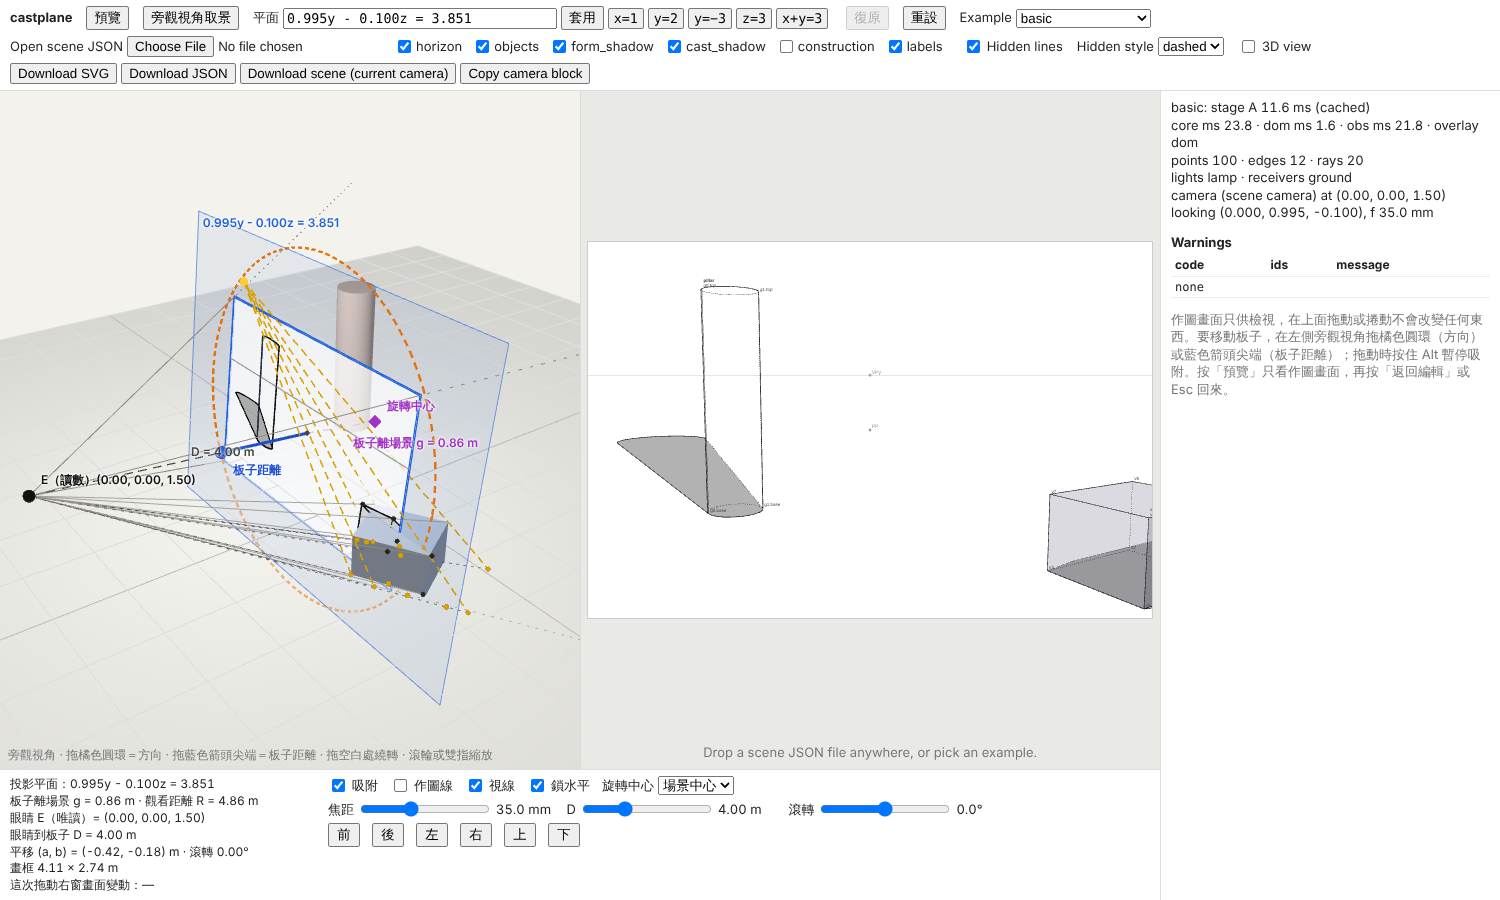
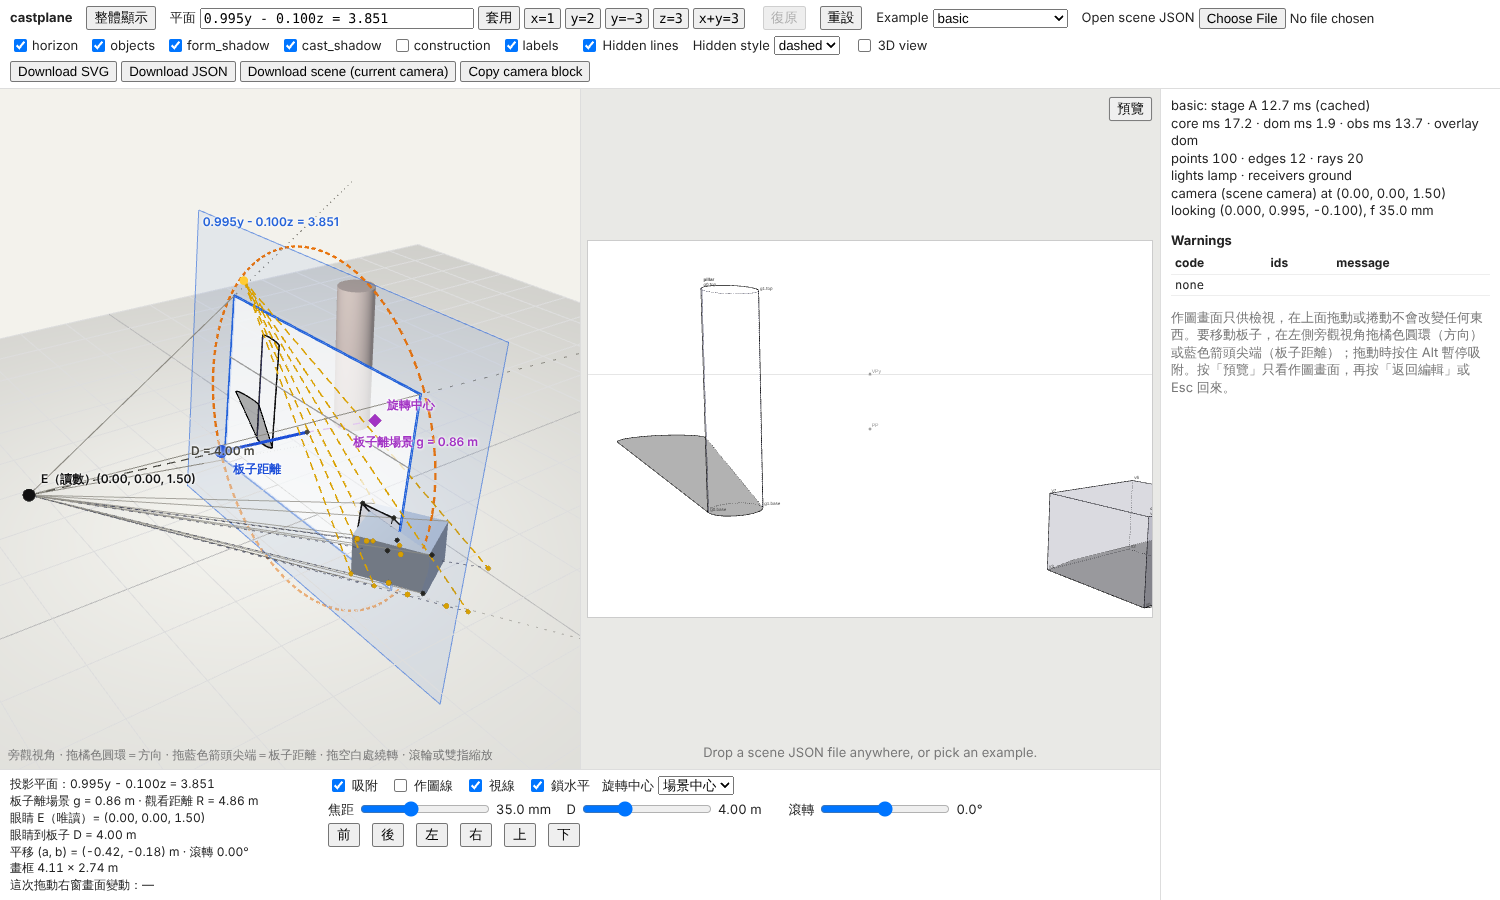
Web: 預覽 at the top right of the drawing pane; 旁觀視角取景 renamed 整體顯示; D80 review fixes
- 預覽 moves from the toolbar into the drawing pane's top right corner.
- 旁觀視角取景 is renamed 整體顯示 (same action).
- 預覽 is refused while an observer drag is held (the board no longer
  moves with the pane hidden).
- Esc in the equation field no longer also leaves 預覽.
- The markup starts in the edit view (no flash of the drawing alone).
- The pivot notice no longer says to open 旁觀視角; stale switch comments.

Claude-Session: https://claude.ai/code/session_01Y5LMS3wqmpLoV9XZ4UvnBE

diff --git a/web/src/main.ts b/web/src/main.ts
@@ -53,7 +53,7 @@ const TOGGLES = initial_toggles(LAYER_IDS);
 interface FrameRecord {
   core_ms: number;
   dom_ms: number;
-  /** The observer's own cost (geometry + its render), `null` while the switch is off. */
+  /** The observer's own cost (geometry + its render), `null` while 預覽 hides the pane. */
   obs_ms: number | null;
   mode: OverlayMode;
   dragging: boolean;
@@ -111,7 +111,7 @@ const { viewport, stage, canvas, examplesSelect, fileInput, focalInput, distInpu
 const view = new Stage3D(canvas);
 const overlay = new Overlay(stage);
 const warnings = new WarningsTable(ui.warningsBody);
-/** The observer pane, created on the first switch-on (with the switch off the layout and outputs are the §5.4.10 page's;
+/** The observer pane, created at startup (D80; while 預覽 hides it the layout and outputs are the §5.4.10 page's;
  *  the drawing pane takes no input either way, D79). */
 let observer: ObserverPane | null = null;
 
@@ -227,7 +227,7 @@ function sync_controls(): void {
   set_lines(ui.readouts, pl.readout_lines());
   const notes = pl.notices();
   if (pl.pivot.mode === "object" && pl.pivot.object_id === null) {
-    notes.push(state.obs.on ? "請點一下左窗的物體，把它設為旋轉中心（目前暫用場景中心）" : "打開旁觀視角後點一下左窗的物體，把它設為旋轉中心（目前暫用場景中心）");
+    notes.push(state.obs.on ? "請點一下左窗的物體，把它設為旋轉中心（目前暫用場景中心）" : "按「返回編輯」後點一下左窗的物體，把它設為旋轉中心（目前暫用場景中心）");
   }
   set_lines(ui.notices, notes);
   ui.undo.disabled = !pl.undo.canUndo;
@@ -297,6 +297,7 @@ ui.equation.addEventListener("keydown", (ev) => {
     ev.preventDefault();
     if (apply_equation(ui.equation.value)) ui.equation.blur();
   } else if (ev.key === "Escape") {
+    ev.stopPropagation(); // the field's Esc cancels the typed text only; it does not also leave 預覽
     set_equation_error(null);
     ui.equation.blur();
   }
@@ -488,7 +489,8 @@ function set_observer(on: boolean): void {
 
 /** "預覽" (D80): the drawing pane alone; pressed again ("返回編輯") or Esc returns to the edit view. */
 function set_preview(preview: boolean): void {
-  if (preview === !state.obs.on) return;
+  // a held drag (observer handle or orbit) keeps the pane: hiding it mid-gesture would move the board unseen
+  if (preview === !state.obs.on || state.dragging || state.handle !== null) return;
   set_observer(!preview);
 }
 ui.preview.addEventListener("click", () => set_preview(state.obs.on));
@@ -641,7 +643,7 @@ function frame(): void {
   set_observer: (on: boolean) => {
     if (on !== state.obs.on) ui.preview.click();
   },
-  /** M9: the observer's state (`null` before it was first switched on). */
+  /** M9: the observer's state (`null` only before startup creates it). */
   get observer() {
     if (observer === null) return null;
     const names = observer.names;
@@ -653,7 +655,7 @@ function frame(): void {
     return { on: state.obs.on, D: state.plane?.rig.D ?? null, view: observer.view, labels: observer.label_texts, names,
       art_objects: count("art"), ms: state.obs.ms, size: [W, H], px };
   },
-  /** M9: the "旁觀視角取景" button. */
+  /** M9: the "整體顯示" button. */
   frame_observer: () => ui.observerFrame.click(),
   /** The UI's hidden-line state: the checkbox and the style select. */
   get hidden() { return { lines: hiddenLines.checked, style: hidden_style() }; },

diff --git a/web/test/plane.test.ts b/web/test/plane.test.ts
@@ -534,7 +534,14 @@ test("the page opens in the edit view: no observer checkbox, a 預覽 toggle but
   const html = readFileSync(resolve(ROOT, "web", "index.html"), "utf-8");
   assert.ok(!html.includes('id="observer-on"'), "the 旁觀視角 checkbox is gone");
   assert.match(html, /<button id="preview" type="button" aria-pressed="false"[^>]*>預覽<\/button>/);
-  assert.ok(!/<span class="group" id="observer-controls" hidden>/.test(html), "旁觀視角取景 is shown with the pane");
+  assert.ok(!/<span class="group" id="observer-controls" hidden>/.test(html), "整體顯示 is shown with the pane");
+  assert.match(html, /<div id="panes" class="observer-on">/, "the markup starts in the edit view");
+  // 預覽 sits at the top right of the drawing pane; 旁觀視角取景 is now 整體顯示
+  assert.match(html, /<section id="viewport" aria-label="viewport">\s*<button id="preview"/);
+  assert.match(html, /<button id="observer-frame" type="button">整體顯示<\/button>/);
+  const css = readFileSync(resolve(ROOT, "web", "src", "style.css"), "utf-8");
+  assert.match(css, /^#preview \{ position: absolute; top: 8px; right: 8px;/m);
+  assert.match(html, /<section id="observer" aria-label="observer view">/, "the observer pane is not hidden in the markup");
   const src = readFileSync(resolve(ROOT, "web", "src", "main.ts"), "utf-8");
   assert.ok(!/localStorage|OBSERVER_KEY|castplane\.observer"/.test(src.replace(/\/\/.*$/gm, "")), "no stored observer state");
   assert.match(src, /^set_preview\(TOGGLES\.preview\);$/m, "the start state comes from initial_toggles");
@@ -543,4 +550,8 @@ test("the page opens in the edit view: no observer checkbox, a 預覽 toggle but
   assert.match(src, /ui\.preview\.setAttribute\("aria-pressed", on \? "false" : "true"\)/);
   assert.match(src, /ui\.preview\.textContent = on \? "預覽" : "返回編輯"/);
   assert.match(src, /ev\.key === "Escape" && !state\.obs\.on\) set_preview\(false\)/);
+  // Esc in the equation field stays there; 預覽 is refused while a drag is held
+  assert.match(src, /ev\.stopPropagation\(\); \/\/ the field's Esc/);
+  assert.match(src, /preview === !state\.obs\.on \|\| state\.dragging \|\| state\.handle !== null\) return;/);
+  assert.ok(!src.includes("打開旁觀視角"), "no notice tells the user to switch the observer on");
 });

diff --git a/web/index.html b/web/index.html
@@ -8,9 +8,8 @@
   <body>
     <header id="toolbar">
       <span class="brand">castplane</span>
-      <button id="preview" type="button" aria-pressed="false" title="只看作圖畫面（Esc 返回）">預覽</button>
       <span class="group" id="observer-controls">
-        <button id="observer-frame" type="button">旁觀視角取景</button>
+        <button id="observer-frame" type="button">整體顯示</button>
       </span>
       <span class="group" id="equation-group">
         <label class="group" for="equation">平面</label>
@@ -42,13 +41,14 @@
     </header>
     <main id="main">
       <div id="work">
-        <div id="panes">
-          <section id="observer" aria-label="observer view" hidden>
+        <div id="panes" class="observer-on">
+          <section id="observer" aria-label="observer view">
             <canvas id="obs-gl"></canvas>
             <div id="obs-labels"></div>
             <div class="obs-hint">旁觀視角 · 拖橘色圓環＝方向 · 拖藍色箭頭尖端＝板子距離 · 拖空白處繞轉 · 滾輪或雙指縮放</div>
           </section>
           <section id="viewport" aria-label="viewport">
+            <button id="preview" type="button" aria-pressed="false" title="只看作圖畫面（Esc 返回）">預覽</button>
             <div id="stage">
               <canvas id="gl" class="hidden"></canvas>
             </div>

diff --git a/web/src/style.css b/web/src/style.css
@@ -36,6 +36,8 @@ body { display: flex; flex-direction: column; }
 #observer { flex: 1; position: relative; min-width: 0; min-height: 0; overflow: hidden; background: #f3f2ec; touch-action: none; border-right: 1px solid #ddd; }
 #observer[hidden] { display: none; }
 /* D80: "預覽" pressed (the observer pane hidden) */
+/* top right of the drawing pane, above the stage */
+#preview { position: absolute; top: 8px; right: 8px; z-index: 5; }
 #preview[aria-pressed="true"] { background: #2563eb; border-color: #1d4ed8; color: #fff; }
 #observer canvas { position: absolute; inset: 0; width: 100%; height: 100%; display: block; cursor: grab; }
 #observer.on-handle canvas { cursor: pointer; }

diff --git a/web/src/ui.ts b/web/src/ui.ts
@@ -226,7 +226,7 @@ export function umbra_count(doc: GeometryDocument): number {
   return (doc.umbra ?? []).reduce((n, u) => n + (u.polygons?.length ?? 0), 0);
 }
 
-/** The status line of a rendered frame; `obs_ms` (the observer's per-frame cost, §5.6.3) only while the switch is on.
+/** The status line of a rendered frame; `obs_ms` (the observer's per-frame cost, §5.6.3) only while the observer pane is shown (not 預覽).
  * The camera line reads the record of the rendered block (`C`, `forward`) and its form. */
 export function status_text(
   sceneName: string, timings: { stage_a_ms: number; core_ms: number; dom_ms: number }, mode: OverlayMode,

diff --git a/web/src/observer.ts b/web/src/observer.ts
@@ -6,7 +6,7 @@
  * `f = rec.forward`, `D` fixed per loaded scene ({@link observer_D}), `Q = E + D·f`, the frame's corners the canvas
  * corners unprojected to depth `D` (`unproject_to_plane`), the pivot `P` and `R` the M7 orbit's `target` and `distance`,
  * `g = R − D`. Everything here only reads the camera record, the document, the scene and stage A; nothing is written
- * back (the switch-off identity of §5.6.0).
+ * back (the switch-off identity of §5.6.0, now the 預覽 state, D80).
  */
 
 import { camera_matrix, plane_equation, resolve_picture_plane, unproject_to_plane } from "castplane";

diff --git a/docs/DECISIONS.md b/docs/DECISIONS.md
@@ -500,13 +500,13 @@ v1 的決定：保留目標值不改，`benchmarks/README.md` 記錄實測數字
 - **理由**：操作板子只留一個地方（左窗與工具列），右窗就成為穩定的結果畫面，看圖、捲頁、點右鍵都不會誤改視角；觸控裝置上右窗也不再搶走捲動。預設直接顯示完成的線稿（物體、地平線、陰影、標籤，被遮住的線依 Hidden style 畫出，預設為虛線），不被作圖線蓋滿；要看作圖過程再勾選 construction。3D view 預設關閉讓畫面乾淨，也省下一個 WebGL 畫面的算圖。勾選狀態屬於使用者的介面偏好，不屬於場景，所以載入另一個場景不該把它改回去。代價：旁觀視角關閉時沒有拖曳可以改相機（只剩滑桿、一鍵視圖與方程式），需要拖曳圓環與箭頭時打開旁觀視角；平移因此沒有手動入口，只能靠載入帶偏移的相機取得。
 - **後續**：第 4 點最後一句「旁觀視角開關預設關閉，不變」，以及本條「代價」中「旁觀視角關閉時沒有拖曳」的前提，已由 D80 取代（旁觀視角預設顯示，開關改為「預覽」按鈕）；其餘仍然有效。
 
-## D80 旁觀視角預設顯示，「旁觀視角」開關改為工具列的「預覽」按鈕（修訂 D79 與 M9 的開關決定；合約 §5.6.0、§5.6.3、§5.6.4 與 §5.6 實作註記）
+## D80 旁觀視角預設顯示，「旁觀視角」開關改為作圖畫面右上角的「預覽」按鈕（修訂 D79 與 M9 的開關決定；合約 §5.6.0、§5.6.3、§5.6.4 與 §5.6 實作註記）
 
 - **規格**：規格 v0.2 §2.2（編輯畫面與預覽）、§2.1（旁觀視角一列）、§5.9、§7.2 的 M9 一列；修訂 D79 第 4 點最後一句「旁觀視角開關預設關閉，不變」，以及 M9 在合約 §5.6.3、§5.6.4 定下的「開關預設關閉、每個瀏覽器用 `localStorage["castplane.observer"]` 記住」。M9 的開關沒有獨立的 D 編號，它的條文在合約 §5.6。
 - **問題**：D79 讓右窗唯讀，板子只能在左窗（旁觀視角）操作，但旁觀視角是一個預設關閉、還會被瀏覽器記住的勾選框。結果是頁面剛開啟時什麼都拖不動，要先找到並打開一個開關；而關閉的狀態又讓整個頁面沒有任何拖曳入口。「看完成的作圖」其實是暫時的看一眼，不是把一個功能關掉。
 - **決定**：
   1. 取消「旁觀視角」勾選框。頁面一律以**編輯畫面**開啟：旁觀視角窗格預設顯示，在作圖畫面左側（頁面寬度小於 880 px 時改為上下堆疊，旁觀視角在上），也就是原本開關打開時的版面。
-  2. 工具列新增切換鈕「預覽」（`aria-pressed`）。按下後旁觀視角窗格、它的工具列控制「旁觀視角取景」與狀態列的 `obs ms` 都隱藏，作圖畫面佔滿全寬；這就是原本「開關關閉」的狀態。預覽時按鈕顯示「返回編輯」，再按一次或按 Esc 回到編輯畫面（旁觀視角重新顯示）。
+  2. 作圖畫面右上角新增切換鈕「預覽」（`aria-pressed`）。按下後旁觀視角窗格、工具列的「整體顯示」與狀態列的 `obs ms` 都隱藏，作圖畫面佔滿全寬；這就是原本「開關關閉」的狀態。預覽時按鈕顯示「返回編輯」，再按一次或按 Esc 回到編輯畫面（旁觀視角重新顯示）。
   3. 預覽時不能拖曳板子（右窗唯讀，D79；把手在旁觀視角裡）；滑桿（焦距、D、滾轉）、六個一鍵視圖、方程式欄位、復原、重設照常可用。
   4. M9 的「開關關閉＝M7 頁面」恆等式照舊成立，只是改名：預覽時的版面、算圖迴圈與輸出和 M7 頁面相同；同一台相機下，疊層 SVG 與下載的 SVG、JSON 在編輯畫面與預覽之間逐位元相同。
   5. 不再記憶：頁面每次都從編輯畫面開始，舊的 `castplane.observer` 不讀也不寫（瀏覽器裡殘留的值直接忽略），預覽狀態也不存。

diff --git a/CHANGELOG.md b/CHANGELOG.md
@@ -11,6 +11,7 @@
 - m10-web (review fixes): a wheel inside a held drag is ignored (one gesture stays one undo step); a scene load drops a held right-pane drag so it never moves the new scene; switching the pivot selector to 點選物體 without a pick keeps the pan; objects are picked by a `userData` tag, so ids with `:` work; the 作圖線 checkbox no longer shares the id `construction` with the SVG layer; blurring a rejected equation clears its error; a slider dragged into its clamped range shows the clamped value at release; the handle hover cursor shows on the canvas; observer labels no longer overlap (`layout_labels`).
 - m10-web (D79, spec-v0.2 §2.1, §5.9): the drawing pane is read-only: no drag (any button, Shift, touch, pen) and no wheel on `#stage` does anything (no `preventDefault`, native page scroll, `touch-action` default, context menu no longer suppressed), so the board is manipulated in the observer pane and the toolbar only and the pan `(a, b)` comes from the load rule alone; toolbar defaults are page-level UI state: horizon, objects, form_shadow, cast_shadow, labels and Hidden lines checked, construction and 3D view unchecked (3D canvas hidden and not rendered from the first frame), kept across scene loads and no longer taken from `output.layers` / `output.hidden_lines`. Contract §5.4 and §5.7 implementation notes, DECISIONS D79; no output byte or conformance case changes.
 - m10-web (D80, spec-v0.2 §2.2): the observer pane is shown by default and the "旁觀視角" checkbox is replaced by a toolbar toggle "預覽" (`aria-pressed`): the page always opens in the edit view (observer left of the drawing pane, stacked on top below 880 px); 預覽 hides the observer pane, 旁觀視角取景 and `obs ms` and gives the drawing pane the full width (the old switch-off state, so the overlay SVG and the downloads stay byte-identical between the two views), the button then reads 返回編輯 and a second click or Esc goes back; the choice is no longer remembered (`localStorage["castplane.observer"]` is neither read nor written). Contract §5.6 implementation notes (amends §5.6.0, §5.6.3, §5.6.4, the §5.4 D79 note) and a one-line amendment to the §5.7 D79 note, DECISIONS D80; no output byte or conformance case changes.
+- m10-web (D80 follow-up): 預覽 moved from the toolbar to the top right of the drawing pane; 旁觀視角取景 renamed 整體顯示; 預覽 is refused while a drag is held; Esc in the equation field no longer also leaves 預覽; the markup starts in the edit view; the pivot notice no longer says to open 旁觀視角.
 
 ## Unreleased — M10 core: `picture_plane` camera form (spec-v0.2 §4.1, §4.3)
 

diff --git a/README.md b/README.md
@@ -87,7 +87,7 @@ B = castplane.project_scene(scene, A, camera=camera, umbra=False)   # umbra[].po
 - 消隱開關與虛線／省略樣式選單；
 - 作圖線稿每個影格由移植的核心重新寫出 SVG，疊在 3D 畫面上；
 - 可下載 SVG、JSON，以及帶目前相機的場景檔（Python 命令列可重現同一張圖）。
-- 旁觀視角（M9，唯讀）：頁面預設就顯示旁觀視角（D80），左窗從外面看作圖相機的眼睛 E、投影平面與畫框（畫框上就是右窗的線稿）、視錐、主點、D 與 g、旋轉中心、平面方程式，以及第一個物體頂點的視線與光線；右窗的作圖與下載完全不變；工具列的「預覽」按鈕可暫時收起旁觀視角、讓作圖畫面佔滿全寬（按鈕變「返回編輯」，再按或按 Esc 回來），下載的檔案在兩種畫面之間逐位元組相同。
+- 旁觀視角（M9，唯讀）：頁面預設就顯示旁觀視角（D80），左窗從外面看作圖相機的眼睛 E、投影平面與畫框（畫框上就是右窗的線稿）、視錐、主點、D 與 g、旋轉中心、平面方程式，以及第一個物體頂點的視線與光線；右窗的作圖與下載完全不變；作圖畫面右上角的「預覽」按鈕可暫時收起旁觀視角、讓作圖畫面佔滿全寬（按鈕變「返回編輯」，再按或按 Esc 回來），下載的檔案在兩種畫面之間逐位元組相同。
 - 平面模式（M10，板子為主）：拖左窗的橘色圓環決定從哪個方向看、拖藍色箭頭決定板子離場景多遠，眼睛 E 由板子算出、唯讀；右窗（作圖畫面）唯讀，在上面拖動或滾輪都不做事，板子只在左窗與工具列操作；箭頭拉近不是焦距；焦距、D、滾轉三個滑桿，旋轉中心（場景中心或點選物體）、鎖水平、六個一鍵視圖、平面方程式欄位（如 `y=2`）、復原與重設，以及讀數；「Download scene」寫出 `picture_plane` 相機。
 
 它是純靜態網頁，不需要伺服器。

diff --git a/web/README.md b/web/README.md
@@ -124,7 +124,7 @@ drag):
 - **Observer view** (M9, contract §5.6; `src/observer.ts` pure and unit-tested, `src/observer3d.ts` the three.js
   pane). The page always opens in the edit view (D80): a second
   three.js view is shown left of the drawing pane, at equal width; below 880 px of page width the two panes stack, the
-  observer on top. The toolbar toggle *預覽* (`aria-pressed`) hides the observer pane, its toolbar control *旁觀視角取景*
+  observer on top. The toggle *預覽* at the top right of the drawing pane (`aria-pressed`) hides the observer pane, its toolbar control *整體顯示*
   and `obs ms`, and the drawing pane takes the full width: the old "switch off" state, with nothing computed for the
   observer. While previewing the button reads *返回編輯*; clicking it again or pressing Esc returns to the edit view. The
   choice is not remembered (`localStorage["castplane.observer"]` is neither read nor written), and the board cannot be
@@ -139,7 +139,7 @@ drag):
   drawing-camera change (handle drag, sliders, views, equation, example load, 重設) updates it in the same frame. In the
   observer pane a left drag on blank space orbits the observer camera (0.4°/px around, 0.3°/px up, elevation −5°…85°; the right and
   middle mouse buttons do nothing), the wheel or a two-finger pinch zooms (4–60 m); none of this touches the drawing.
-  *旁觀視角取景* frames it (keeps the direction, targets the centroid of E, Q, the scene centre and its ground point,
+  *整體顯示* frames it (keeps the direction, targets the centroid of E, Q, the scene centre and its ground point,
   the point lights and the frame corners, distance `clamp(2.3 · radius, 6, 60)` m, pulled back further when a point
   would fall outside the pane's inner 90 %, as it would in the portrait side-by-side pane); it also frames after a
   scene load, 重設, 復原, a view, an applied equation and a pivot change, never during a drag. In M10 the pane also
